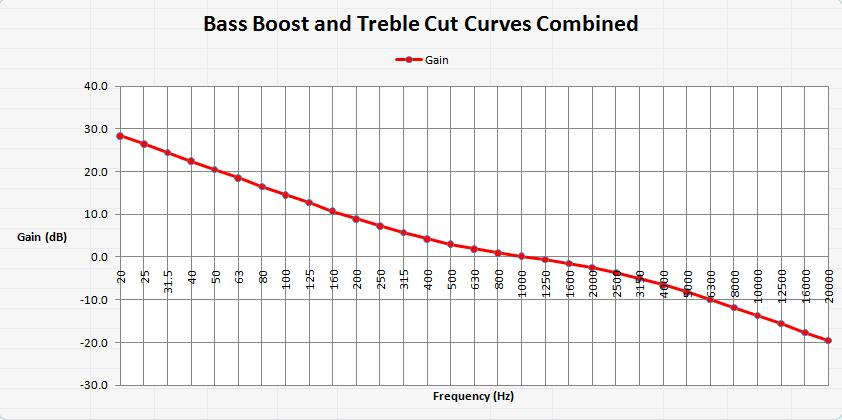
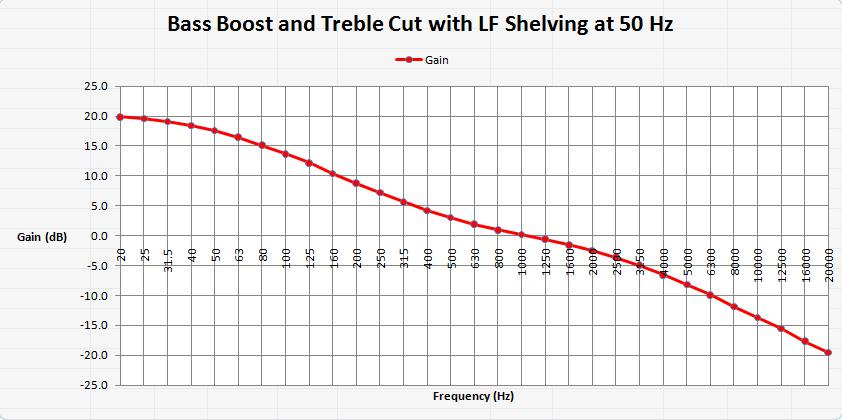
GITBOOK-84: EQ xml to txt file

diff --git a/additional-resources/eq-curves/playback-equalization-for-78-rpm-shellacs-and-early-33-lps.md b/additional-resources/eq-curves/playback-equalization-for-78-rpm-shellacs-and-early-33-lps.md
@@ -6,8 +6,8 @@ The audio on almost every phonograph record is not the same as that originally p
 
 The most relevant EQ curves are presented as [Table 1](playback-equalization-for-78-rpm-shellacs-and-early-33-lps.md#table-1-playback-equalization-curves):
 
-* You can download some of them from the [EQ Curves Library](broken-reference) section of this page, convert them to a TXT file with EQ XML to TXT Converter and import them into Audacity using or
-* You can generate any curve yourself with the [78 rpm EQ Curve Generator](broken-reference) plugin
+* You can download some of them from the [EQ Curves Library](broken-reference/) section of this page, [convert them to a TXT file with **EQ XML to TXT Converter**](eq-xml-to-txt-converter.md) and import them into Audacity using or
+* You can generate any curve yourself with the [78 rpm EQ Curve Generator](broken-reference/) plugin
 * You can set the sliders of any digital or analog graphic equalizer manually
 * You can determine appropriate settings for any adjustable analog pre-amplifier.
 
@@ -18,7 +18,7 @@ Which EQ curve will be needed for a specific record label is answered:
 
 ### Using EQ curves in Audacity
 
-In **Filter Curve EQ** or **Graphic EQ**, click on **Presets & settings**, then **Import...**.&#x20;
+Once [converted to txt](eq-xml-to-txt-converter.md), you can import the curve in the **Filter Curve EQ** or **Graphic EQ effects**, by clicking **Presets & settings** -> **Import...**.
 
 ### Equalization (EQ) Curves explained
 
@@ -30,18 +30,17 @@ Modern vinyl records use a method of pre-emphasis and de-emphasis adopted by the
 
 Each EQ curve is a combination of two filter characteristics; a bass boost curve, defined by a 'Bass Turnover' (or 3dB) frequency, and a treble cut curve, defined by a '10 kHz Gain Roll-off' parameter, i.e. a defined level of treble cut at 10 kHz.
 
-As an example, Figure 1 below shows the characteristic of the bass boost curve defined by a 500Hz Bass Turnover, and Figure 2 shows the characteristic of the treble cut curve defined by a 10 kHz Gain Roll-off of -13.7dB. These two curves, when combined, give the characteristic shown in Figure 3.\
-
+As an example, Figure 1 below shows the characteristic of the bass boost curve defined by a 500Hz Bass Turnover, and Figure 2 shows the characteristic of the treble cut curve defined by a 10 kHz Gain Roll-off of -13.7dB. These two curves, when combined, give the characteristic shown in Figure 3.\\
 
 <figure><img src="../../.gitbook/assets/image (4).png" alt=""><figcaption><p>Figure 1. Bass Boost curve: 3dB at 500 Hz</p></figcaption></figure>
 
 <figure><img src="../../.gitbook/assets/image (5).png" alt=""><figcaption><p>Figure 2. Treble Cut curve: -13.7 dB at 10 kHz</p></figcaption></figure>
 
-<figure><img src="../../.gitbook/assets/image (1).png" alt=""><figcaption><p>Figure 3. Combined Bass Boost and Treble Cut curve</p></figcaption></figure>
+<figure><img src="../../.gitbook/assets/image (1) (2).png" alt=""><figcaption><p>Figure 3. Combined Bass Boost and Treble Cut curve</p></figcaption></figure>
 
 The EQ curve may also include a Low Frequency Shelving filter, (although it is absent from the definition of most 78 rpm EQ curves). This addition reduces the effect of the bass boost at very low frequencies (typically 50 or 100 Hz) in order to attenuate low-frequency noise such as turntable rumble. Figure 4 shows the effect of a 50 Hz LF shelving filter being added to the curve in Figure 3. This is in fact the RIAA standard EQ curve.
 
-<figure><img src="../../.gitbook/assets/image.png" alt=""><figcaption><p>Figure 4. Combined Bass Boost, Treble Cut and 50 Hz LF Shelving curve</p></figcaption></figure>
+<figure><img src="../../.gitbook/assets/image (1).png" alt=""><figcaption><p>Figure 4. Combined Bass Boost, Treble Cut and 50 Hz LF Shelving curve</p></figcaption></figure>
 
 Acoustically recorded (pre-electric) 78 rpm records have a completely different characteristic because they were cut with a different type of cutter (For more details see: Acoustic recordings). In some early EQ curves of electrically recorded shellacs, while there is a bass boost curve, there is no treble cut necessary – i.e. the 10 kHz gain roll-off is zero.
 
@@ -131,7 +130,7 @@ Table 1 is mostly based on Tab. 2a of: Heinz O. Graumann, Schallplatten-Schneidk
 
 \[4] Old RCA is one of the original RCA curves for shellacs. It continued to be used for 33⅓ LPs by RCA-Victor, Brunswick, Concert Hall, Coral, Decca (Amer.) and Westminster. The turnover f3 and the time constants are computed values for an equalizer set at 800N-8.
 
-\[5] 250 Hz or 300 Hz seem to be a question of personal listening preference, as explained in [Individual fine tuning](broken-reference)
+\[5] 250 Hz or 300 Hz seem to be a question of personal listening preference, as explained in [Individual fine tuning](broken-reference/)
 
 \[6] Robert C. Moyer, Evolution of a Recording Curve; in: Audio Engineering, vol.37, no.7, July 1953; pp 19-22, 53-54. Roll-off is frequently listed as between 10 and 12 dB, but this “flattening off” to ca 10 dB at 10 kHz was an intentional high cut which must not be compensated for in playback. Thus a setting of 13.7 dB is correct!
 
@@ -161,7 +160,7 @@ EQ Curves for Audacity can be generated from these Frequency and Roll-off values
 
 ## EQ Curves Library
 
-Here you can find some useful EQ curves for download to Audacity for use in Effect -> EQ and Filters -> Graphic EQ and Filter Curve EQ. (Curves are in TXT file format, as required in current Audacity and compatible down to version 2.4.0).&#x20;
+Here you can find some useful EQ curves for download to Audacity for use in Effect -> EQ and Filters -> Graphic EQ and Filter Curve EQ. (Curves are in TXT file format, as required in current Audacity and compatible down to version 2.4.0).
 
 ### 78 rpm shellacs
 
@@ -336,7 +335,7 @@ In case sources did not agree on one EQ curve, their different opinions are list
 | Mercury                     | 1945 - 1953; approx. to matrix YB9700; since late 1953 => RIAA                                                                                         | AES            | 400N-12.3 | 400                          |                      | -12.3                                  | ia,ES,mm,JP,Mc                                                                                    |
 | MGM (American)              | founded 1946; up to E3071                                                                                                                              | MGM \[MGM]     | 500N-12   | 500                          |                      | -12                                    | ia,ES,mil,JP,RF                                                                                   |
 | MGM (British)               | 1949 - 7/1953, matrix no. 0SM420                                                                                                                       | 500-FLAT       | 500N-0    | 500                          |                      | 0                                      | PC                                                                                                |
-| Musicraft                   |  ??? RCA Old Ortho.???                                                                                                                                 |                |           | 700-800                      |                      | -13.7                                  | ES,mil                                                                                            |
+| Musicraft                   | ??? RCA Old Ortho.???                                                                                                                                  |                |           | 700-800                      |                      | -13.7                                  | ES,mil                                                                                            |
 | Musicraft                   |                                                                                                                                                        |                |           | 500                          |                      | -8.5 or -12                            | JP                                                                                                |
 | Nat. Gramophonic Soc.       | 1926 - 1933, with M in a circle, cat. HHH to TTT and NGS.65 to NGS.102                                                                                 | BBC 2dB/oct.   |           |                              |                      |                                        | PC                                                                                                |
 | Nixa                        | 1950 - ?, Britain, shellacs produced by Decca UK                                                                                                       | Decca 78       | 300N-5.5  | 300                          |                      | -5.7                                   | ris                                                                                               |
@@ -507,7 +506,7 @@ In case that sources did not agree on one EQ curve, their different opinions are
 | Decca (American)                        | 1953, 33⅓ and 45 rpm                                                                                                                                                       | AES               | 400N-12.3 | 400                          | N                    | -12.3                                  | mm,JP,RF                                                                                          |
 | Decca (American)                        | 1953 - Nov 1955, 33⅓ and 45 rpm                                                                                                                                            | NAB               | 500B-16   | 500                          | B                    | -16                                    | Hi,mm,JP,RF                                                                                       |
 | Decca (British)                         | 1950-1956                                                                                                                                                                  | London LP         | 500C-10.5 | 500                          | C                    | -10.5                                  | mm                                                                                                |
-| Decca (British)                         | ffrr (from ARL1186-1B)\*\*\*                                                                                                                                               |  ???London        |           | 500                          |                      | -10                                    | ES                                                                                                |
+| Decca (British)                         | ffrr (from ARL1186-1B)\*\*\*                                                                                                                                               | ???London         |           | 500                          |                      | -10                                    | ES                                                                                                |
 | Decca (British)                         | ffrr (after 6/50)\*\*\*                                                                                                                                                    | 500-FLAT          | 500N-0    | 500                          | N                    | 0                                      | ES                                                                                                |
 | Decca (British)                         | ffrr (from ARL2530-2A)                                                                                                                                                     | RIAA              | 500R-13.7 | 500                          | R                    | -13.7                                  | ES                                                                                                |
 | Decca (European)                        | 1949 - 1954, (Telefunken + Decca UK = TELDEC since 1950)                                                                                                                   | Telefunken        | 400N-0    | 400                          | N                    | 0                                      | mm                                                                                                |
@@ -554,7 +553,7 @@ In case that sources did not agree on one EQ curve, their different opinions are
 | Lyrichord                               | 1951 - 1957(?)                                                                                                                                                             | NAB               | 500B-16   | 500                          | B                    | -16                                    | Hi,mm                                                                                             |
 | Lyrichord                               | 1950 - 1952, mastered by RCA                                                                                                                                               | Old Ortho. \[R-D] | 500N-13.7 | 500                          | N                    | 13.7                                   | PC                                                                                                |
 | Lyrichord                               |                                                                                                                                                                            |                   |           | 400                          |                      | -16                                    | mil,JP,RF                                                                                         |
-| Lyrichord                               | before 1953, (E0-E3 matrix)                                                                                                                                                |  ???AES           |           | 400                          |                      | -12                                    | ES                                                                                                |
+| Lyrichord                               | before 1953, (E0-E3 matrix)                                                                                                                                                | ???AES            |           | 400                          |                      | -12                                    | ES                                                                                                |
 | Lyrichord                               | if labeled "629"                                                                                                                                                           | Bartok            | 630C-16   | 629                          | C                    | -16                                    | ES,mil,JP,Mc                                                                                      |
 | Mercury                                 | 1948 - 1952, marked "2000Hz/3dB p.octave", MG10000 series                                                                                                                  |                   |           | 500                          |                      | -7 (3 dB/oct.)                         | PC,ES                                                                                             |
 | Mercury                                 | 1953 - Oct 1954, 33⅓ and 45s, to matrix MG50026, 7000                                                                                                                      | AES               | 400N-12.3 | 400                          | N                    | -12.3                                  | Hi,ES,mil,mm,JP, PC,Hk,Mc                                                                         |

diff --git a/additional-resources/eq-curves/eq-xml-to-txt-converter.md b/additional-resources/eq-curves/eq-xml-to-txt-converter.md
@@ -1,0 +1,32 @@
+---
+description: Convert older EQ presets to use in current Audacity
+---
+
+# EQ XML to TXT converter
+
+## Download and installation
+
+First, download the plugin below:
+
+{% file src="../../.gitbook/assets/EQ xml to txt.ny" %}
+Downlaod link
+{% endfile %}
+
+Then install the plugin in Audacity via **Tools -> Nyquist Plugin Installer** and restart Audacity. Detailed steps are available at [https://support.audacityteam.org/basics/customizing-audacity/installing-plugins#installing-nyquist-plugins](https://support.audacityteam.org/basics/customizing-audacity/installing-plugins#installing-nyquist-plugins)&#x20;
+
+## Using the converter
+
+Once installed, the converter appears in **Tools -> EQ XML to TXT Converter**.
+
+<figure><img src="../../.gitbook/assets/image.png" alt=""><figcaption><p>Screenshot</p></figcaption></figure>
+
+To use it,
+
+1. Select the target EQ effect. Curves to be imported can be either for [Filter Curve EQ](https://manual.audacityteam.org/man/filter\_curve\_eq.html) effect or [Graphic EQ](https://manual.audacityteam.org/man/graphic\_eq.html) effect but _not_ both.
+2. Select your source XML file.
+3. (optional) select what should happen if the file exists already
+4. Click OK.&#x20;
+
+The TXT file now is in the same location as the source XML file.
+
+You now can import the TXT file via Filter Curve EQ or Graphic EQ -> **Presets and settings -> Import...**

diff --git a/SUMMARY.md b/SUMMARY.md
@@ -67,6 +67,7 @@
 
 * [Audacity themes](additional-resources/audacity-themes.md)
 * [EQ curves](additional-resources/eq-curves/README.md)
+  * [EQ XML to TXT converter](additional-resources/eq-curves/eq-xml-to-txt-converter.md)
   * [Weighted curves](additional-resources/eq-curves/weighted-curves.md)
   * [Playback equalization for 78 rpm shellacs and early 33⅓ LPs](additional-resources/eq-curves/playback-equalization-for-78-rpm-shellacs-and-early-33-lps.md)
 * [External scripts](additional-resources/tools.md)
